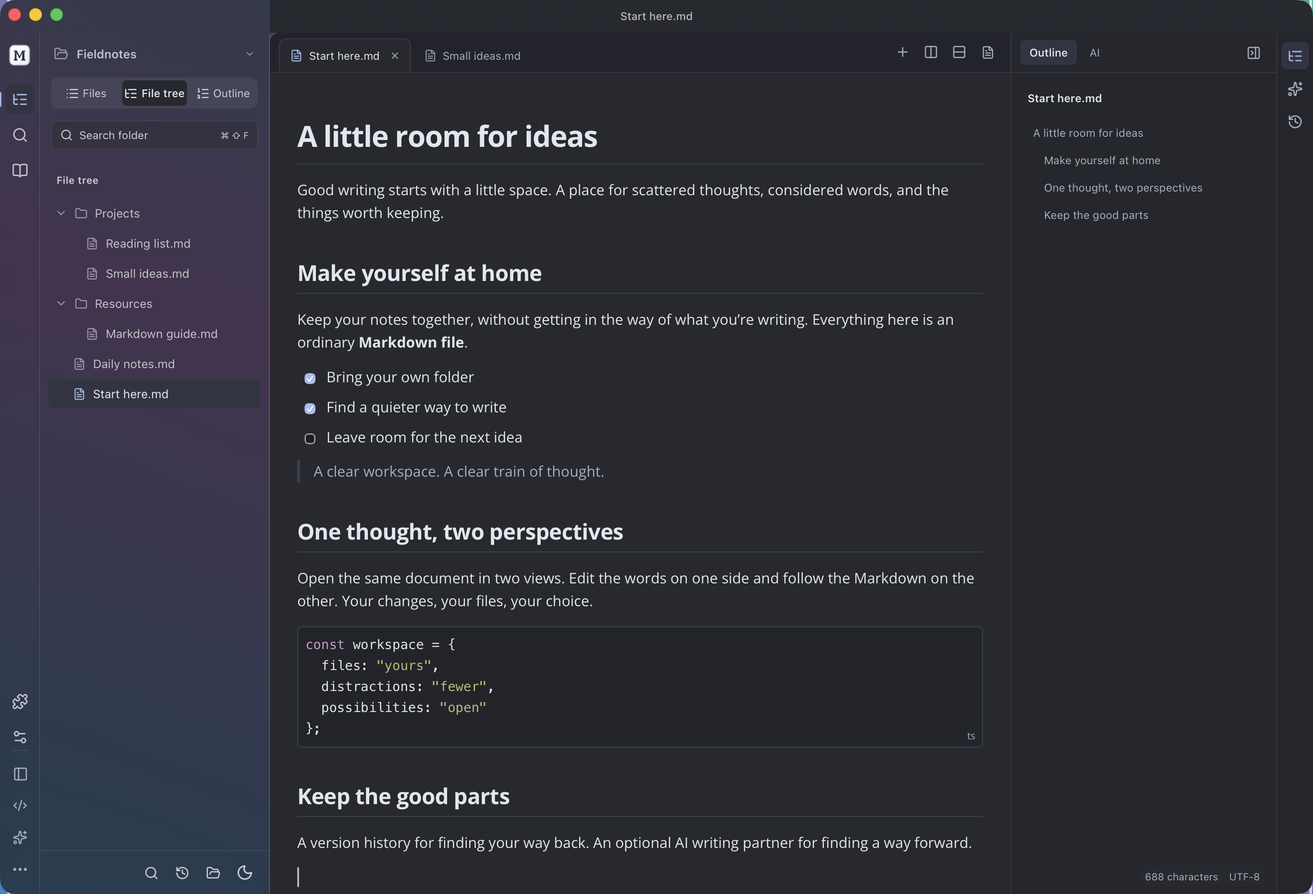
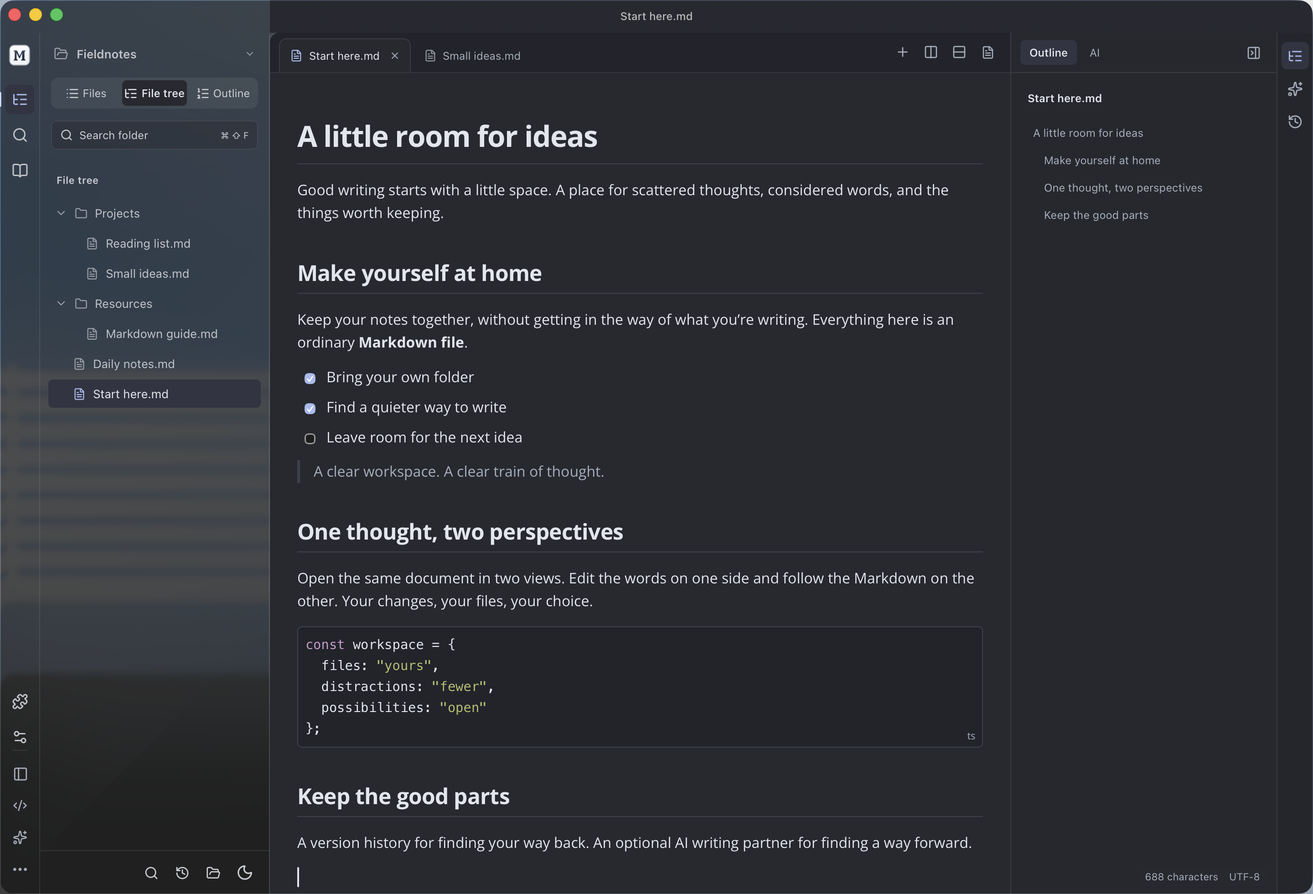
feat: use native macOS 26 glass with compatible legacy chrome [skip ci]

Changed region(s): [[0.0, 0.7469, 1.0, 1.0]]

diff --git a/native/App.swift b/native/App.swift
@@ -75,20 +75,31 @@ struct CommandGroup: Decodable { let title: String; let items: [EditorCommand] }
 // WKWebView does not implement Electron's -webkit-app-region. Handle the
 // reserved 28-point toolbar row before WebKit consumes the mouse-down event.
 class EditorWindow: NSWindow {
-  func setEditorWebView(_ webView: WKWebView) {
+  private(set) var workspaceMaterial = "macos"
+  func setEditorWebView(_ webView: WKWebView, allowsGlass: Bool = true) {
     // CSS paints the writing surface opaquely; AppKit blurs the desktop
     // behind the translucent workspace chrome and honors system accessibility.
     webView.setValue(false, forKey: "drawsBackground")
     webView.underPageBackgroundColor = .clear
-    let material = NSVisualEffectView(frame: webView.frame)
-    material.material = .underWindowBackground
-    material.blendingMode = .behindWindow
-    material.state = .active
     webView.autoresizingMask = [.width, .height]
-    material.addSubview(webView)
     isOpaque = false
     backgroundColor = .clear
-    contentView = material
+    if #available(macOS 26.0, *), allowsGlass {
+      let glass = NSGlassEffectView(frame: webView.frame)
+      glass.style = .regular
+      glass.cornerRadius = 0
+      glass.contentView = webView
+      contentView = glass
+      workspaceMaterial = "macos-glass"
+    } else {
+      let material = NSVisualEffectView(frame: webView.frame)
+      material.material = .underWindowBackground
+      material.blendingMode = .behindWindow
+      material.state = .active
+      material.addSubview(webView)
+      contentView = material
+      workspaceMaterial = "macos"
+    }
   }
   func startsTitleBarDrag(_ event: NSEvent) -> Bool {
     guard event.type == .leftMouseDown, event.window === self,
@@ -487,7 +498,7 @@ final class NativeWindowHost: NSObject, NSWindowDelegate, WKScriptMessageHandler
       let appearance = try arg(args, 0, String.self)
       guard ["light", "dark"].contains(appearance) else { throw NativeFailure("外观无效。") }
       window.appearance = NSAppearance(named: appearance == "dark" ? .darkAqua : .aqua)
-      return true
+      return window.workspaceMaterial
     case "setLocale":
       let next = try arg(args, 0, String.self) == "en" ? "en" : "zh-CN"
       if owner.uiLocale != next { owner.uiLocale = next; UILanguage.current = next; for host in owner.hosts { host.buildMenu() } }

diff --git a/src/writingWorkspace.css b/src/writingWorkspace.css
@@ -110,14 +110,16 @@
 /* Let the native material supply the frost; a second near-opaque CSS layer
    hides its backdrop. Keep the opaque fallback on hosts without that material. */
 :root[data-window-material=macos] { --chrome-glass:color-mix(in srgb,var(--sidebar) 24%,transparent); }
-:root[data-window-material=macos],:root[data-window-material=macos] body { background:transparent; }
-:root[data-window-material=macos] :is(.sidebar,.workspace-ribbon) { --muted:color-mix(in srgb,var(--ink) 88%,var(--sidebar)); -webkit-backdrop-filter:none; backdrop-filter:none; }
+:root[data-window-material=macos-glass] { --chrome-glass:color-mix(in srgb,var(--sidebar) 8%,transparent); }
+:root:is([data-window-material=macos],[data-window-material=macos-glass]),:root:is([data-window-material=macos],[data-window-material=macos-glass]) body { background:transparent; }
+:root:is([data-window-material=macos],[data-window-material=macos-glass]) :is(.sidebar,.workspace-ribbon) { --muted:color-mix(in srgb,var(--ink) 88%,var(--sidebar)); -webkit-backdrop-filter:none; backdrop-filter:none; }
 @media(max-width:1100px) { .right-tools { width:264px; } .right-tool-rail { width:36px; padding-left:2px; padding-right:2px; } }
 @media(max-width:820px) { .writing-content.with-tools { flex-wrap:wrap; } .with-tools .editor-workspace { flex-basis:calc(100% - 36px); } .right-tools { order:3; width:100%; max-width:100%; min-width:0; height:40%; min-height:180px; border-left:0; border-top:1px solid var(--chrome-line); } .right-tool-rail { order:2; } .right-tools .ai-review-panel { flex-basis:auto; min-height:0; } .right-outline { padding-top:12px; } }
 @media(max-width:760px) {
   .app-shell { grid-template-columns:var(--ribbon-width) 0 minmax(0,1fr); }
   .app-shell:not(.sidebar-hidden) .sidebar { top:36px; left:var(--ribbon-width); width:min(var(--sidebar-width),calc(100vw - var(--ribbon-width) - 48px)); box-shadow:8px 0 24px #00000012; }
   .sidebar { --chrome-glass:color-mix(in srgb,var(--sidebar) 94%,transparent); }
+  :root[data-window-material=macos-glass] .sidebar { --chrome-glass:color-mix(in srgb,var(--sidebar) 8%,transparent); }
   .document-title { max-width:calc(100% - 180px); }
   .document-tab { min-width:100px; max-width:180px; }
   .workspace-bar { padding-left:6px; padding-right:6px; gap:4px; }

diff --git a/tests/WindowChromeTests.swift b/tests/WindowChromeTests.swift
@@ -7,6 +7,11 @@ private final class WindowDragSpy: EditorWindow {
 }
 
 func runWindowChromeTests() throws {
+  try exerciseWindowChrome(allowsGlass: true)
+  try exerciseWindowChrome(allowsGlass: false)
+}
+
+private func exerciseWindowChrome(allowsGlass: Bool) throws {
   _ = NSApplication.shared
   let window = WindowDragSpy(
     contentRect: NSRect(x: 0, y: 0, width: 900, height: 640),
@@ -16,7 +21,7 @@ func runWindowChromeTests() throws {
   window.titleVisibility = .hidden
   window.titlebarAppearsTransparent = true
   let webView = WKWebView(frame: window.contentView!.bounds)
-  window.setEditorWebView(webView)
+  window.setEditorWebView(webView, allowsGlass: allowsGlass)
   defer { window.close() }
 
   func event(_ point: NSPoint, type: NSEvent.EventType = .leftMouseDown) -> NSEvent {
@@ -29,8 +34,17 @@ func runWindowChromeTests() throws {
     guard condition else { throw NativeFailure("FAIL: " + name) }
     print("PASS: " + name)
   }
-  try expect(window.contentView is NSVisualEffectView && !window.isOpaque,
-    "window installs the native sidebar material behind a transparent web view")
+  try expect(!window.isOpaque && webView.value(forKey: "drawsBackground") as? Bool == false,
+    "native chrome keeps the web view and window background transparent")
+  if #available(macOS 26.0, *), allowsGlass {
+    guard let glass = window.contentView as? NSGlassEffectView else { throw NativeFailure("Missing native glass container") }
+    try expect(glass.contentView === webView && glass.style == .regular && window.workspaceMaterial == "macos-glass",
+      "macOS 26 embeds the actual web view inside regular native glass")
+  } else {
+    guard let effect = window.contentView as? NSVisualEffectView else { throw NativeFailure("Missing legacy material container") }
+    try expect(effect.subviews.contains(webView) && effect.material == .underWindowBackground && effect.blendingMode == .behindWindow && window.workspaceMaterial == "macos",
+      "older macOS retains the behind-window material fallback")
+  }
   for size in [NSSize(width: 900, height: 640), NSSize(width: 660, height: 500), NSSize(width: 1380, height: 960)] {
     window.setContentSize(size)
     try expect(webView.frame.size == window.contentView!.bounds.size,

diff --git a/design/presentation/hero.html b/design/presentation/hero.html
@@ -10,6 +10,6 @@
   <div class="brand"><img src="../icon.svg" alt="">Open Markdown Lane</div>
   <div class="platform">macOS · Windows · Linux</div>
   <section class="copy"><h1>A clearer space for your words.</h1><p>Live Markdown. Local files. Optional AI.</p></section>
-  <div class="window"><img src="../../docs/images/workspace-light.png" alt="Open Markdown Lane 0.26.1 editing an English document with the file tree, tabs and outline open."></div>
+  <div class="window"><img src="../../docs/images/workspace-light.png" alt="Open Markdown Lane 0.26.2 editing an English document with the file tree, tabs and outline open."></div>
 </main>
 </html>

diff --git a/src/App.tsx b/src/App.tsx
@@ -343,7 +343,7 @@ export default function App() {
     let current = true;
     const appearance = (builtInThemes.find(item => item.id === theme) || builtInThemes[0]).dark ? "dark" : "light";
     void host.setAppearance(appearance).then(material => {
-      if (current) document.documentElement.dataset.windowMaterial = material ? "macos" : "none";
+      if (current) document.documentElement.dataset.windowMaterial = material;
     }).catch(() => { if (current) document.documentElement.dataset.windowMaterial = "none"; });
     return () => { current = false; };
   }, [theme]);

diff --git a/shared/contracts.d.ts b/shared/contracts.d.ts
@@ -89,7 +89,7 @@ export interface Host {
   captureVersion(id: string, content: string, reason: string): Promise<VersionResult>;
   readVersion(id: string, versionId: string): Promise<{ version: DocumentVersion; content: string }>;
   setLocale(locale: string): Promise<unknown>;
-  setAppearance(appearance: "light" | "dark"): Promise<boolean>;
+  setAppearance(appearance: "light" | "dark"): Promise<"macos-glass" | "macos" | "none">;
   systemLocale(): Promise<string>;
   cancelClose(): Promise<unknown>;
   windowAction(action: string): Promise<unknown>;

diff --git a/src/host.ts b/src/host.ts
@@ -41,7 +41,7 @@ const browser: Host = {
   async captureVersion() { return { versions: [] }; },
   async readVersion() { throw new Error('持久化版本历史请使用桌面应用。'); },
   async setLocale() {},
-  async setAppearance() { return false; },
+  async setAppearance() { return "none"; },
   async systemLocale() { return normalizeLocale(navigator.language); },
 
   native: false,

diff --git a/README.md b/README.md
@@ -16,22 +16,22 @@
 >
 > If you can afford it, please **[buy Typora](https://store.typora.io/)** and support its official developers. Visit **[typora.io](https://typora.io/)** for the official product and support.
 
-![Open Markdown Lane 0.26.1 workspace](docs/images/hero.png)
+![Open Markdown Lane 0.26.2 workspace](docs/images/hero.png)
 
 [Light workspace](docs/images/workspace-light.png) · [Dark workspace](docs/images/workspace-dark.png) · [Shared document views](docs/images/shared-views.png)
 
 Open Markdown Lane is an open-source Markdown editor inspired by Typora's inline editing experience. Write directly in the rendered document, switch to source when you need it, and save ordinary `.md` files in your own folders.
 
-**Status:** early development, version **0.26.1**. Release builds support **macOS 14+ on Apple Silicon**, **Windows 10/11 x64**, and **Linux x64**. On first launch, the interface and sample notes follow the system language: Chinese locales use Simplified Chinese, and other locales use English. New profiles stay in Follow system language mode until you choose a language in Preferences → Language. A manual choice always takes precedence; existing notes and saved settings are preserved. On Linux, `LC_ALL`, `LC_MESSAGES`, then `LANG` determine the initial language. This is an independent project, unaffiliated with Typora; full feature and behavior parity is still in progress.
+**Status:** early development, version **0.26.2**. Release builds support **macOS 14+ on Apple Silicon**, **Windows 10/11 x64**, and **Linux x64**. On first launch, the interface and sample notes follow the system language: Chinese locales use Simplified Chinese, and other locales use English. New profiles stay in Follow system language mode until you choose a language in Preferences → Language. A manual choice always takes precedence; existing notes and saved settings are preserved. On Linux, `LC_ALL`, `LC_MESSAGES`, then `LANG` determine the initial language. This is an independent project, unaffiliated with Typora; full feature and behavior parity is still in progress.
 
-**0.26.1 release checks:** macOS, Windows and Linux installation tests, Everything preview, real Ubuntu FUSE mounts and public AppImageUpdate passed. Native macOS translucency was verified with a display-compositor capture. [Verification record](docs/verification.md).
+**0.26.2 release checks:** native glass and legacy-material regressions passed locally; three-platform release checks are pending. [Verification record](docs/verification.md).
 
 ## Features
 
 - **Optional AI editing** — connect your own OpenAI-compatible API, OpenRouter, LM Studio or Ollama; rewrite a selection, review individual changes, and apply with one-step undo. [Setup, privacy and limits](docs/ai.md).
 - **Reviewed multi-document edits** — choose up to four documents, generate a plan, review each file and change, then apply. Preserve numbers, dates, links, code and exact terms; restore an accepted batch across restarts if no later edits conflict. [Workflow and limits](docs/workspace.md#edit-multiple-documents).
 - **References and folder Q&A** — mention local files with `@`, inspect relevant excerpts before sending, and get answers with checked source quotes. Insert portable Markdown citations with one-step undo. [Workflow and limits](docs/workspace.md).
-- **Writing workspace** — a narrow navigation ribbon, frosted file sidebar, compact tabs and a collapsible right dock. Native macOS sidebar blur keeps the writing surface clear; document themes and AI reviews retain their settings. [Layout and platform differences](docs/workspace.md#workspace-layout).
+- **Writing workspace** — a narrow navigation ribbon, frosted file sidebar, compact tabs and a collapsible right dock. macOS 26 uses native Liquid Glass; macOS 14/15 retain compatible blur. The writing surface stays clear; document themes and AI reviews retain their settings. [Layout and platform differences](docs/workspace.md#workspace-layout).
 - **Version history** — browse local snapshots across restarts, capture a version before experimenting, and restore earlier text while retaining the current content and undo.
 - **Live Markdown editing** — headings, inline formatting, lists, tasks, tables, links, footnotes, and YAML front matter. Edit code and formulas in place, or switch to the full source view.
 - **Spreadsheet paste** — copy an Excel/WPS range into an editable Markdown table in live or source mode; keep blank cells, quoted line breaks and one-step undo. [Clipboard behavior](docs/clipboard.md).
@@ -69,20 +69,20 @@ The demo keeps documents in the current tab's memory; it does not upload or pers
 
 | Platform | Installer | Alternative |
 | --- | --- | --- |
-| Windows 10/11 · x64 | **[Download Setup.exe](https://github.com/AniChikage/open-markdown-lane/releases/download/v0.26.1/Open-Markdown-Lane-0.26.1-windows-x64-Setup.exe)** | [ZIP](https://github.com/AniChikage/open-markdown-lane/releases/download/v0.26.1/Open-Markdown-Lane-0.26.1-windows-x64.zip) |
-| macOS 14+ · Apple Silicon | **[Download DMG](https://github.com/AniChikage/open-markdown-lane/releases/download/v0.26.1/Open-Markdown-Lane-0.26.1-arm64.dmg)** | [ZIP](https://github.com/AniChikage/open-markdown-lane/releases/download/v0.26.1/Open-Markdown-Lane-0.26.1-arm64.zip) |
-| Linux · x64 | **[Download DEB](https://github.com/AniChikage/open-markdown-lane/releases/download/v0.26.1/Open-Markdown-Lane-0.26.1-linux-x64.deb)** | [AppImage](https://github.com/AniChikage/open-markdown-lane/releases/download/v0.26.1/Open-Markdown-Lane-0.26.1-x86_64.AppImage) |
+| Windows 10/11 · x64 | **[Download Setup.exe](https://github.com/AniChikage/open-markdown-lane/releases/download/v0.26.2/Open-Markdown-Lane-0.26.2-windows-x64-Setup.exe)** | [ZIP](https://github.com/AniChikage/open-markdown-lane/releases/download/v0.26.2/Open-Markdown-Lane-0.26.2-windows-x64.zip) |
+| macOS 14+ · Apple Silicon | **[Download DMG](https://github.com/AniChikage/open-markdown-lane/releases/download/v0.26.2/Open-Markdown-Lane-0.26.2-arm64.dmg)** | [ZIP](https://github.com/AniChikage/open-markdown-lane/releases/download/v0.26.2/Open-Markdown-Lane-0.26.2-arm64.zip) |
+| Linux · x64 | **[Download DEB](https://github.com/AniChikage/open-markdown-lane/releases/download/v0.26.2/Open-Markdown-Lane-0.26.2-linux-x64.deb)** | [AppImage](https://github.com/AniChikage/open-markdown-lane/releases/download/v0.26.2/Open-Markdown-Lane-0.26.2-x86_64.AppImage) |
 
-[SHA-256 checksums](https://github.com/AniChikage/open-markdown-lane/releases/download/v0.26.1/SHA256SUMS.txt) · [All releases](https://github.com/AniChikage/open-markdown-lane/releases)
+[SHA-256 checksums](https://github.com/AniChikage/open-markdown-lane/releases/download/v0.26.2/SHA256SUMS.txt) · [All releases](https://github.com/AniChikage/open-markdown-lane/releases)
 
-AppImage downloads use the `Open-Markdown-Lane-VERSION-x86_64.AppImage` naming convention. From 0.24.5, they include standard stable-channel update information and a [`.zsync` control file](https://github.com/AniChikage/open-markdown-lane/releases/download/v0.26.1/Open-Markdown-Lane-0.26.1-x86_64.AppImage.zsync) for updates through AppImageUpdate. [Update instructions](docs/linux-appimage.md#updates-with-appimageupdate).
+AppImage downloads use the `Open-Markdown-Lane-VERSION-x86_64.AppImage` naming convention. From 0.24.5, they include standard stable-channel update information and a [`.zsync` control file](https://github.com/AniChikage/open-markdown-lane/releases/download/v0.26.2/Open-Markdown-Lane-0.26.2-x86_64.AppImage.zsync) for updates through AppImageUpdate. [Update instructions](docs/linux-appimage.md#updates-with-appimageupdate).
 
 ### Install on Linux
 
 Ubuntu 22.04 or a compatible x64 distribution is the tested baseline. Download the DEB and install it with:
 
 ```sh
-sudo apt install ./Open-Markdown-Lane-0.26.1-linux-x64.deb
+sudo apt install ./Open-Markdown-Lane-0.26.2-linux-x64.deb
 ```
 
 The desktop launcher and Markdown file association are included. Uninstalling with `sudo apt remove open-markdown-lane` retains your documents and recovery data.
@@ -101,7 +101,7 @@ The Windows build is currently **not code-signed**. Windows may display an unkno
 
 ### Install on macOS
 
-1. Download **[Open-Markdown-Lane-0.26.1-arm64.dmg](https://github.com/AniChikage/open-markdown-lane/releases/download/v0.26.1/Open-Markdown-Lane-0.26.1-arm64.dmg)** from [Releases](https://github.com/AniChikage/open-markdown-lane/releases/latest).
+1. Download **[Open-Markdown-Lane-0.26.2-arm64.dmg](https://github.com/AniChikage/open-markdown-lane/releases/download/v0.26.2/Open-Markdown-Lane-0.26.2-arm64.dmg)** from [Releases](https://github.com/AniChikage/open-markdown-lane/releases/latest).
 2. Open the DMG and drag **Open Markdown Lane** into **Applications**.
 3. Launch Open Markdown Lane from Applications.
 
@@ -113,7 +113,7 @@ The application is locally signed and **not Apple-notarized**. macOS may ask you
 
 ### Build from source
 
-All platforms need **Node.js 26** and npm. A Typora installation is not required. On macOS, also install the **Xcode Command Line Tools** (`xcode-select --install`).
+All platforms need **Node.js 26** and npm. A Typora installation is not required. On macOS, also install the **macOS 26 SDK** from Xcode 26 or matching Command Line Tools. Confirm `xcrun --show-sdk-version` is 26 or later; the built app still targets macOS 14.
 
 ```sh
 git clone https://github.com/AniChikage/open-markdown-lane.git

diff --git a/docs/release-notes.md b/docs/release-notes.md
@@ -1,15 +1,14 @@
-Open Markdown Lane 0.26.1 fixes the macOS frosted sidebar so the native background material can show through.
+Open Markdown Lane 0.26.2 adds native Liquid Glass on macOS 26 while keeping macOS 14/15 compatible.
 
 This is an independent, unofficial project, unaffiliated with Typora. If you can afford it, please [buy Typora](https://store.typora.io/) and support its official developers.
 
-![Native macOS frosted sidebar over an owned colored test background](https://raw.githubusercontent.com/AniChikage/open-markdown-lane/v0.26.1/docs/images/workspace-dark.png)
+![Native macOS 26 glass over an owned neutral test background](https://raw.githubusercontent.com/AniChikage/open-markdown-lane/v0.26.2/docs/images/workspace-dark.png)
 
 ## Changes
 
-- Replaced the nearly opaque macOS sidebar tint with a lighter translucent layer over native behind-window material. Removed redundant CSS blur on native material surfaces.
-- Native material follows the current light or dark document theme, including when the operating system uses a different appearance. Inactive windows retain the frosted treatment.
-- Kept opaque desktop fallbacks on Windows/Linux, the clear writing surface, and reduced-transparency and forced-color styles.
-- Existing documents, recovery, themes, model configuration and editor behavior retain their storage formats.
+- Use the standard native glass container on macOS 26 and later, with a lighter 8% sidebar tint. The writing surface stays opaque, and the glass follows the document's light or dark theme.
+- Retain the existing compatible material on macOS 14/15. The minimum macOS requirement remains 14; Windows and Linux keep opaque desktop fallbacks.
+- Preserve reduced-transparency and forced-color styles, document themes, background images and existing storage formats.
 
 ## Downloads
 
@@ -21,6 +20,6 @@ The six installers and the control file are covered by `SHA256SUMS.txt`. macOS i
 
 ## Validation
 
-Production build, strict checks and 265 unit tests passed, together with workspace, shared-view, native window/store, full native WebKit (163 editor checks) and shared-view regressions. These cover Chinese composition, exact saves, cross-pane undo/redo and real process restart. Physical IME candidate-window acceptance was not repeated.
+Local build, strict checks and 265 unit tests passed. Native window checks exercise both glass and legacy containers, resizing, title-bar dragging and system-button regions. Actual display-compositor captures use the production editor over an owned neutral patterned background, restricted to the test window's rectangle. Physical IME candidate-window acceptance has not been repeated.
 
-The macOS visual check uses an owned patterned window behind the real editor and a consented display-compositor capture restricted to that editor's rectangle. Window-only snapshots are not counted as evidence of behind-window translucency. All three-platform installation and upgrade tests passed, together with Everything preview, real Ubuntu 22.04/24.04 FUSE mounts and public AppImageUpdate from 0.26.0. The published installers were downloaded and verified against their checksums. The local macOS app is updated, with document, session, view-state and settings fingerprints preserved. The superseded 0.26.0 Release and installation copies have been removed; source tags and history remain. See [the verification record](https://github.com/AniChikage/open-markdown-lane/blob/main/docs/verification.md) for the final scope and results.
+Publication is gated by three-platform installation and editor regressions, Everything preview and real Ubuntu FUSE mounts. Public AppImageUpdate and verified old-release cleanup follow publication. See [the verification record](https://github.com/AniChikage/open-markdown-lane/blob/main/docs/verification.md) for the final scope and results.

diff --git a/docs/linux-appimage.md b/docs/linux-appimage.md
@@ -1,10 +1,10 @@
 # Running the Linux AppImage
 
-Use the x64 AppImage from the [0.26.1 release](https://github.com/AniChikage/open-markdown-lane/releases/tag/v0.26.1) and verify its SHA-256 checksum. Make it executable, then run it as your ordinary user. The DEB is the recommended Ubuntu installation, with desktop and file associations included.
+Use the x64 AppImage from the [0.26.2 release](https://github.com/AniChikage/open-markdown-lane/releases/tag/v0.26.2) and verify its SHA-256 checksum. Make it executable, then run it as your ordinary user. The DEB is the recommended Ubuntu installation, with desktop and file associations included.
 
 ```sh
-chmod +x Open-Markdown-Lane-0.26.1-x86_64.AppImage
-./Open-Markdown-Lane-0.26.1-x86_64.AppImage
+chmod +x Open-Markdown-Lane-0.26.2-x86_64.AppImage
+./Open-Markdown-Lane-0.26.2-x86_64.AppImage
 ```
 
 ## Updates with AppImageUpdate
@@ -14,8 +14,8 @@ Starting with 0.24.5, the AppImage embeds the standard GitHub Releases update ch
 Use the upstream [AppImageUpdate tools](https://github.com/AppImageCommunity/AppImageUpdate/releases) to check and install an update. With `appimageupdatetool` on your PATH:
 
 ```sh
-appimageupdatetool --check-for-update ./Open-Markdown-Lane-0.26.1-x86_64.AppImage
-appimageupdatetool --remove-old ./Open-Markdown-Lane-0.26.1-x86_64.AppImage
+appimageupdatetool --check-for-update ./Open-Markdown-Lane-0.26.2-x86_64.AppImage
+appimageupdatetool --remove-old ./Open-Markdown-Lane-0.26.2-x86_64.AppImage
 ```
 
 `--remove-old` removes the prior AppImage after the updater verifies the new file. Documents, recovery data and settings remain in their existing data directories. The embedded `latest` channel follows stable GitHub releases; AppImageUpdate discovers the matching x86_64 `.zsync` asset and reuses unchanged data blocks. Standard update discovery starts with 0.24.5; older downloads need a manual first upgrade.
@@ -35,7 +35,7 @@ sudo apt install libfuse2
 sudo apt install libfuse2t64
 ```
 
-To inspect a real mount, run `./Open-Markdown-Lane-0.26.1-x86_64.AppImage --appimage-mount`. While it remains running, inspect the printed directory with `findmnt --target /printed/mountpoint`. Its filesystem type should start with `fuse`. Press Ctrl+C to unmount. This is different from `--appimage-extract`.
+To inspect a real mount, run `./Open-Markdown-Lane-0.26.2-x86_64.AppImage --appimage-mount`. While it remains running, inspect the printed directory with `findmnt --target /printed/mountpoint`. Its filesystem type should start with `fuse`. Press Ctrl+C to unmount. This is different from `--appimage-extract`.
 
 ## Ubuntu's user namespace restriction
 
@@ -48,7 +48,7 @@ Save this as `/etc/apparmor.d/open-markdown-lane-appimage`, replacing the exampl
 ```text
 abi <abi/4.0>,
 include <tunables/global>
-profile open-markdown-lane-appimage "/absolute/path/Open-Markdown-Lane-0.26.1-x86_64.AppImage" flags=(unconfined) {
+profile open-markdown-lane-appimage "/absolute/path/Open-Markdown-Lane-0.26.2-x86_64.AppImage" flags=(unconfined) {
   userns,
 }
 ```

diff --git a/docs/test-plan.md b/docs/test-plan.md
@@ -1,19 +1,19 @@
 # 现有功能测试清单
 
-当前迭代：**0.26.1**。下方既有矩阵最初审计于 0.22.0；实际执行结果按版本保存在[验收记录](verification.md)，不把历史覆盖自动当成本轮已通过。命名字面量正则替换问题已有修复和回归。
+当前迭代：**0.26.2**。下方既有矩阵最初审计于 0.22.0；实际执行结果按版本保存在[验收记录](verification.md)，不把历史覆盖自动当成本轮已通过。命名字面量正则替换问题已有修复和回归。
 
 日期：2026-11-03。清单覆盖 24 个模块、152 条功能用例，附共享命令表中的全部 128 个菜单命令。每条列出操作、期望和执行入口；这是可维护的测试设计与执行索引，登记不等于已通过，更不代表所有平台、插件、文件与输入法组合已穷尽。
 
 本机环境：macOS 26.5.2 / arm64、Node 26.7.0、Electron 44.7.2、实际 WKWebView；网页补测使用独立无头 Chrome 156、1280×900 和 400×850。Browser plugin not available，使用项目 Playwright 套件。Pandoc、LibreOffice 与 bundled pypdf 用于实际转换及 PDF 内容核验。桌面测试使用隔离资料，不发送用户文档或修改用户模型配置。
 
-## 0.26.1 工作区与发行
+## 0.26.2 原生玻璃与旧系统兼容
 
 | 场景 | 验收要求 | 执行入口 |
 | --- | --- | --- |
 | 导航和排版 | 文件树／文件／大纲、图标栏与右侧工具正确切换；窄窗口无横向溢出，明暗配色及背景设置保留 | `test:workspace`、`tests/typography-desktop.mts` |
 | 插件弹窗焦点 | 跳过不可见控件；聚焦被拒绝时选择可见后备控件；Esc 关闭并恢复编辑焦点 | `test:workspace`、原生 WebKit |
 | 文件树激活 | 点击已打开文件后立即作用于该标签；保留正文、模式与撤销，不异步重新加载磁盘 | 未放宽的桌面基线、工作区用例 |
-| 侧栏材质 | macOS 原生材质容器下缩放、标题栏拖动和系统按钮区域正常；实际屏幕合成核对透色和细条纹模糊，明暗材质随主题同步；Windows/Linux 保留实底后备 | 原生窗口测试、平台载荷工作区回归、隔离原生合成截图 |
+| 侧栏材质 | macOS 26 原生玻璃和旧系统材质分别检查缩放、标题栏拖动与系统按钮；普通明暗背景屏幕合成核对透色、细线模糊及文字对比度；辅助设置回退到实底；Windows/Linux 保留后备 | 原生窗口测试、平台载荷工作区回归、隔离原生合成截图 |
 | 公开交付 | 三平台安装回归、Everything、真实 FUSE、公开更新通道；所有包及 zsync 与公开摘要一致 | 正式发行流水线、公开下载校验 |
 | 安装和清理 | 正常退出后替换原签名应用；重启恢复、跨窗格撤销／重做、精确保存；比较原资料与设置，验证新包后清理指定旧 Release | 本机隔离夹具、升级指纹、限定清理门禁 |
 
